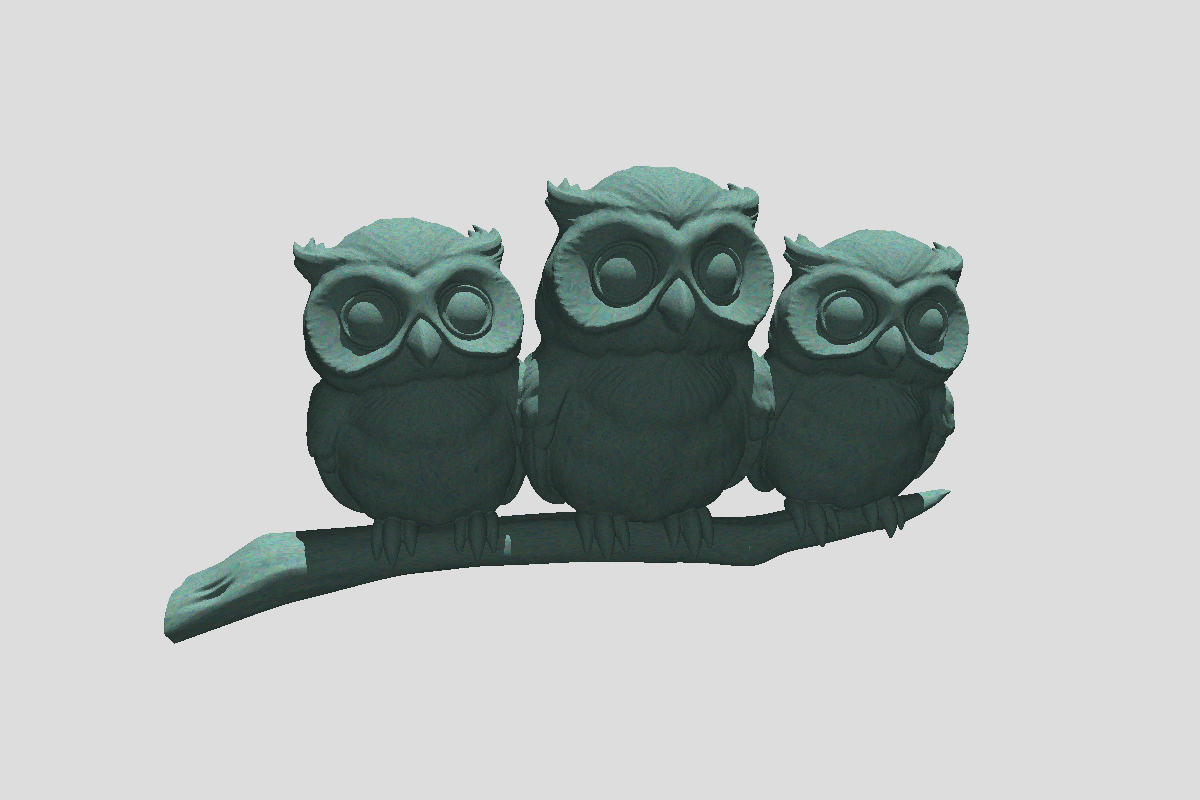
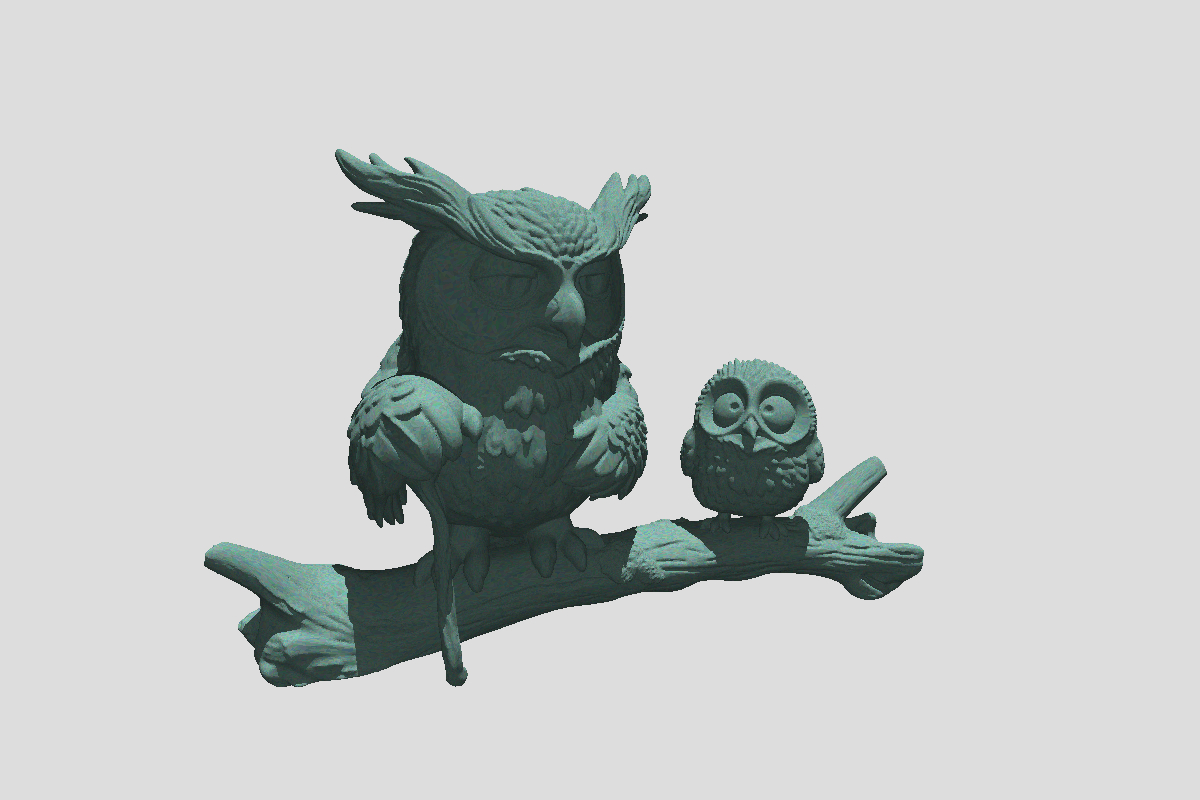
updated jpegs

Changed region(s): [[0.1233, 0.1875, 0.8325, 0.875]]

diff --git a/Chapter3c-MultipleRayTypesAnyHitAndTerminateRay/hostCode.cpp b/Chapter3c-MultipleRayTypesAnyHitAndTerminateRay/hostCode.cpp
@@ -402,7 +402,8 @@ helpers to make it easier to use this.
 
   // ==================================================================
   if (sceneFileName == "")
-    sceneFileName = "../data/owls.mini";
+    sceneFileName = "../data/peteAndI.mini";
+//sceneFileName = "../data/owls.mini";
   
   std::cout << OWL_TERMINAL_LIGHT_BLUE
             << "\nLoading some input scene (from " << sceneFileName << "):\n"

diff --git a/Chapter3d-Textures/hostCode.cpp b/Chapter3d-Textures/hostCode.cpp
@@ -512,7 +512,7 @@ helpers to make it easier to use this.
 
   // ==================================================================
   if (sceneFileName == "")
-    sceneFileName = "../data/owls.mini";
+    sceneFileName = "../data/peteAndI.mini";
   
   std::cout << OWL_TERMINAL_LIGHT_BLUE
             << "\nLoading some input scene (from " << sceneFileName << "):\n"
